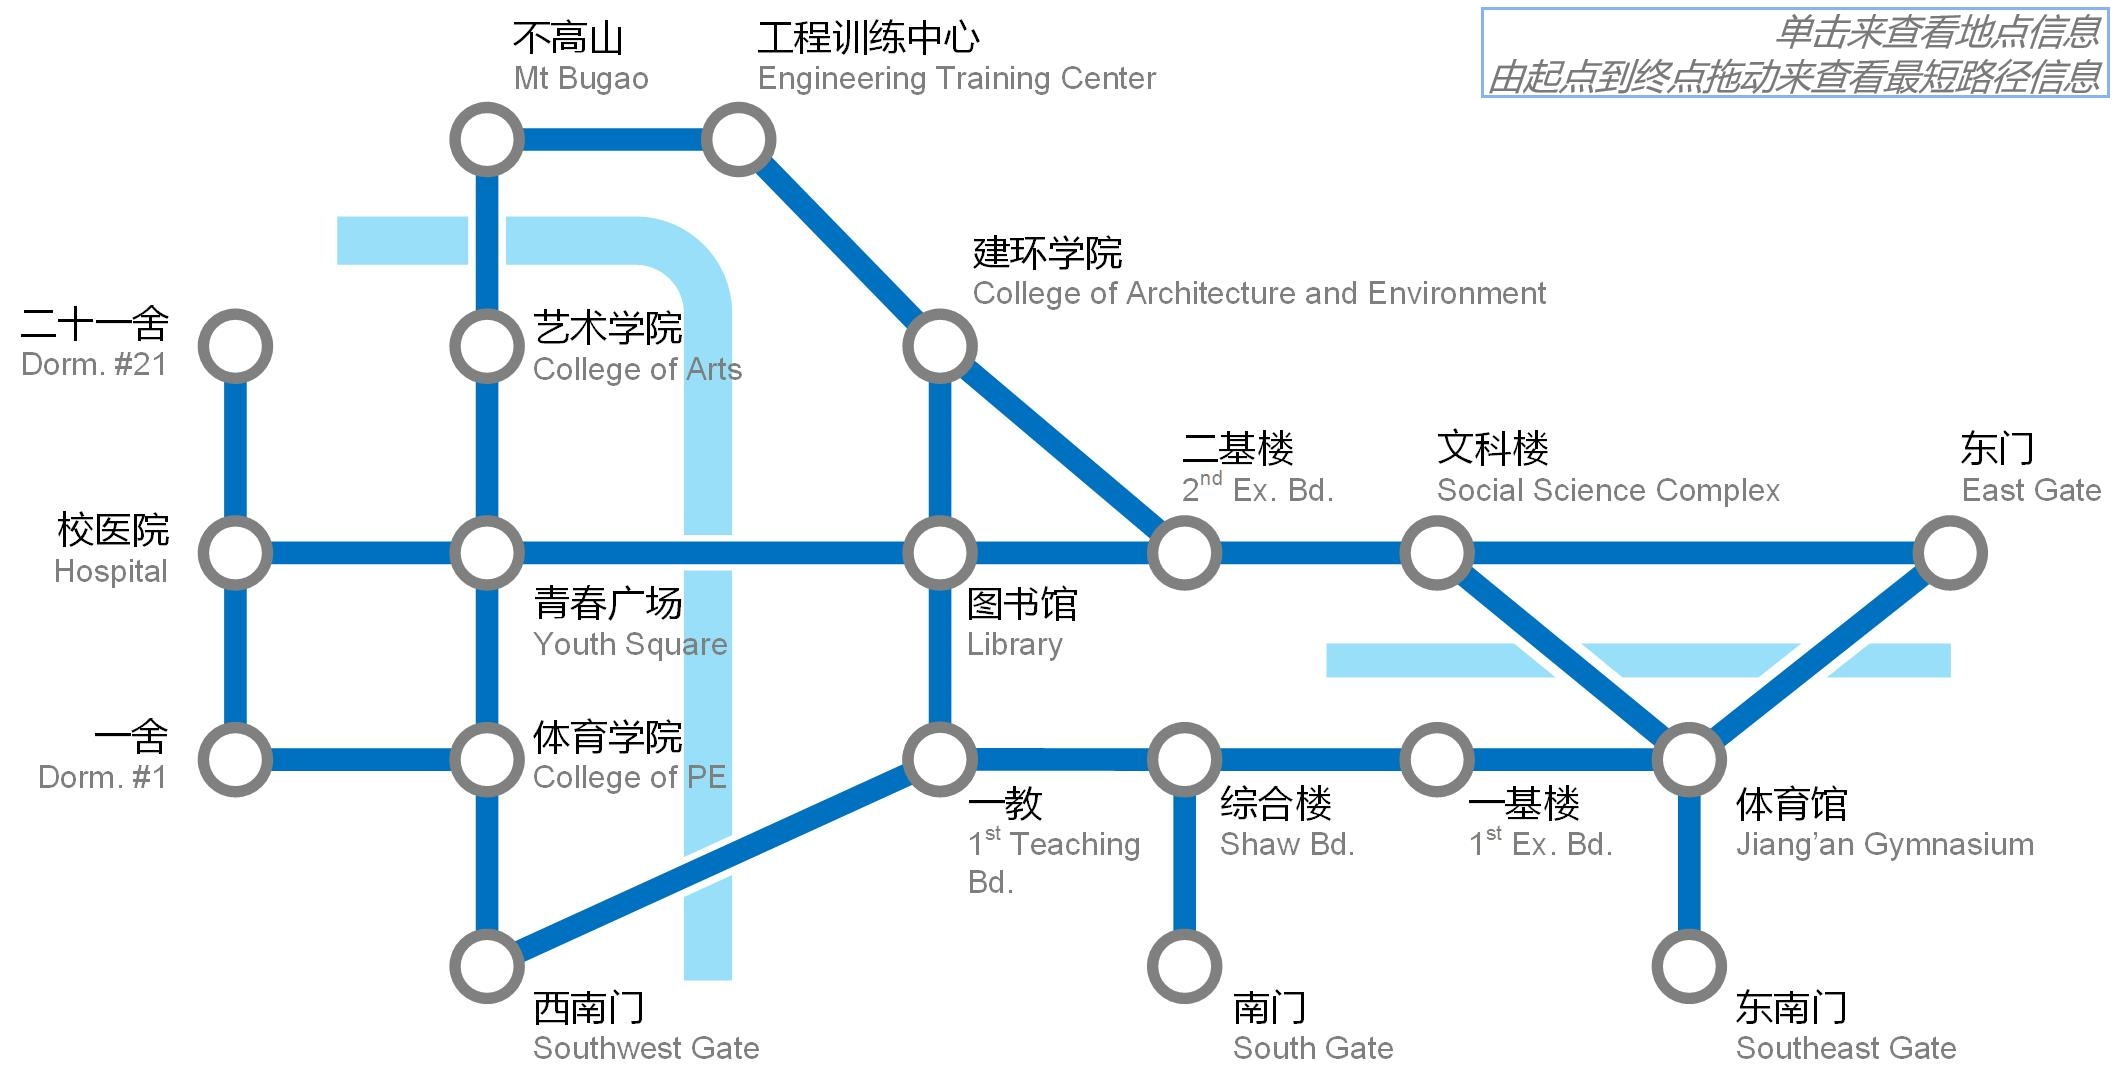
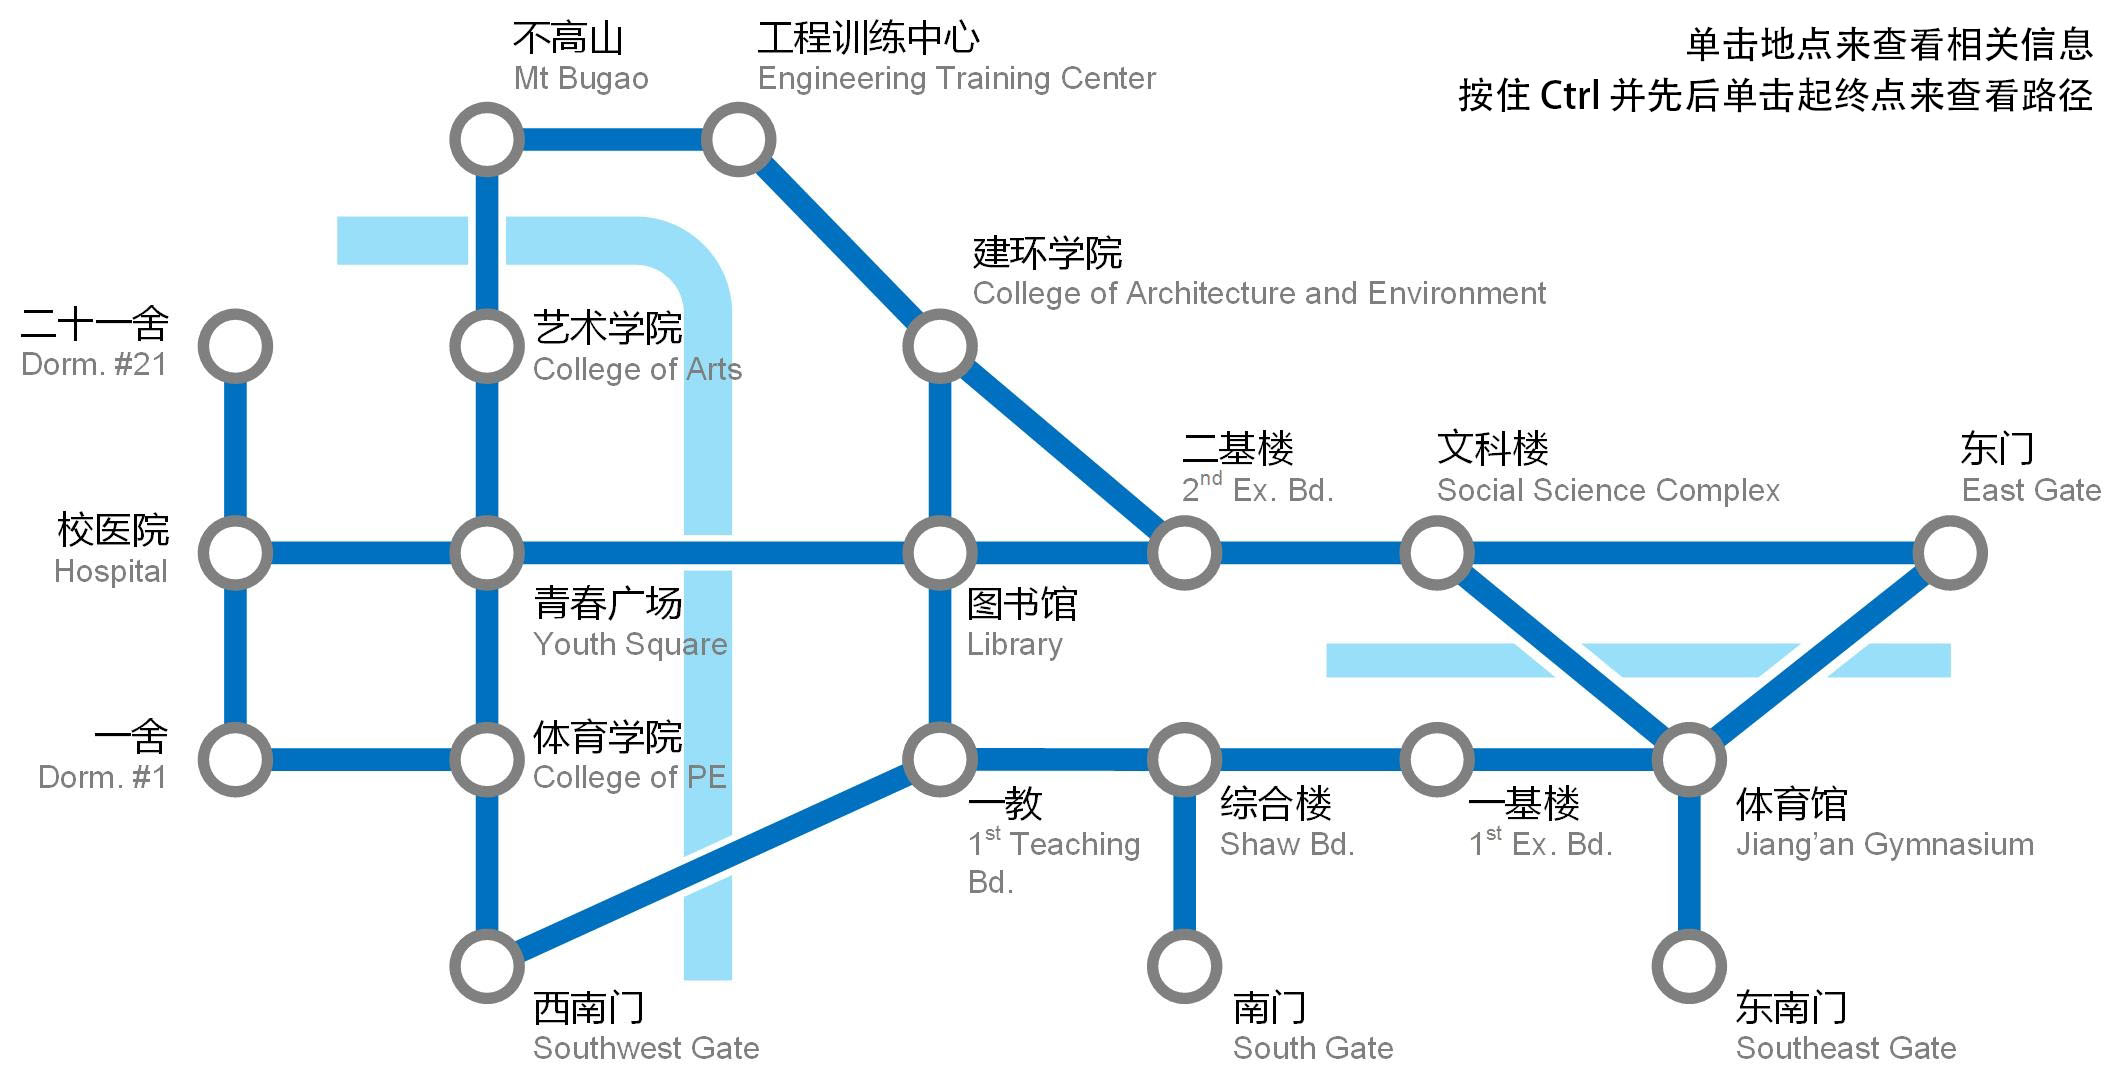
The description re-newed

Changed region(s): [[0.6849, 0.0, 0.9962, 0.1219]]

diff --git a/DSAA_Project3/Forms/frmMain.Designer.cs b/DSAA_Project3/Forms/frmMain.Designer.cs
@@ -449,9 +449,9 @@
             // picMaskHelp
             // 
             this.picMaskHelp.BackColor = System.Drawing.Color.White;
-            this.picMaskHelp.Location = new System.Drawing.Point(758, 0);
+            this.picMaskHelp.Location = new System.Drawing.Point(861, 0);
             this.picMaskHelp.Name = "picMaskHelp";
-            this.picMaskHelp.Size = new System.Drawing.Size(500, 92);
+            this.picMaskHelp.Size = new System.Drawing.Size(397, 73);
             this.picMaskHelp.TabIndex = 20;
             this.picMaskHelp.TabStop = false;
             // 
@@ -473,7 +473,7 @@
             this.btnHelpOK.BackColor = System.Drawing.Color.White;
             this.btnHelpOK.FlatStyle = System.Windows.Forms.FlatStyle.Flat;
             this.btnHelpOK.Font = new System.Drawing.Font("Microsoft YaHei UI", 10F, System.Drawing.FontStyle.Regular, System.Drawing.GraphicsUnit.Point, ((byte)(0)));
-            this.btnHelpOK.Location = new System.Drawing.Point(1118, 79);
+            this.btnHelpOK.Location = new System.Drawing.Point(1112, 79);
             this.btnHelpOK.Name = "btnHelpOK";
             this.btnHelpOK.Size = new System.Drawing.Size(131, 52);
             this.btnHelpOK.TabIndex = 22;
